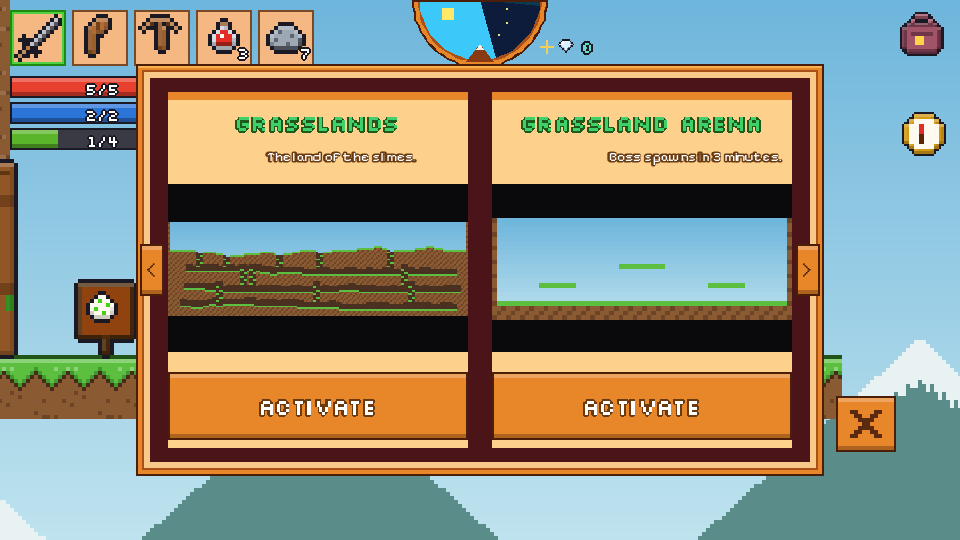
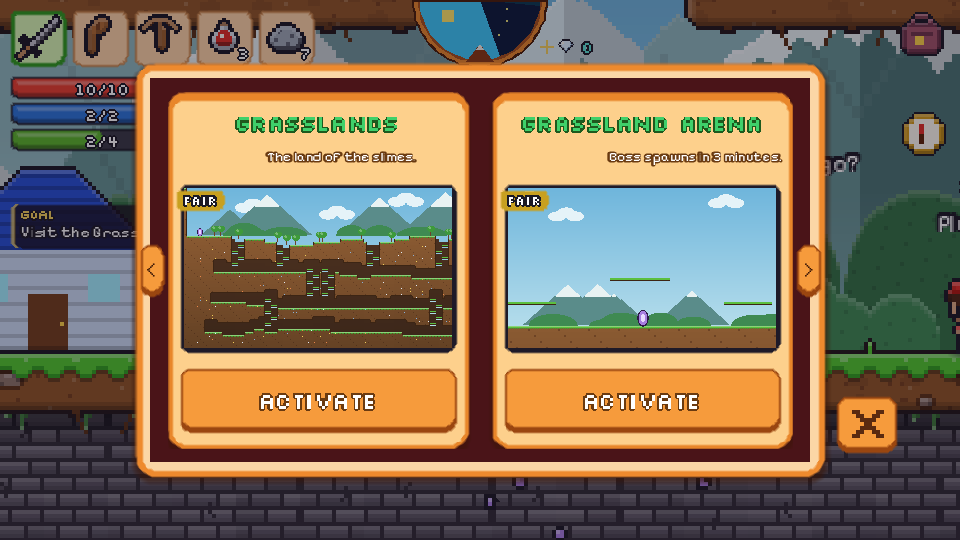
Line the town portal up under the opening, Crafter and Gatekeeper either side, and draw the world card maps like little screenshots
Claude-Session: https://claude.ai/code/session_01AhoKvcs55exJvAoSiLBhvt

diff --git a/Pixel Wilds Vault/01 Project/Decision Log.md b/Pixel Wilds Vault/01 Project/Decision Log.md
@@ -5,6 +5,13 @@ tags: [project, decisions]
 
 Newest first. Each entry gives the decision, why, and where it came from.
 
+## 2026-10-29 (portal area and world card maps)
+- **The Gatekeeper's portal opens in the exact middle of Pixel Town, right under the middle of the opening you jump up through,** so the opening and the portal line up. Before, the portal stood half a tile left of the opening's middle.
+- **The Crafter stands just left of the portal and the Gatekeeper just right of it,** each at the edge of the opening, the same distance away. The Crafter used to be at the east end of the street. The Plumber, Banka and the Merchant each moved one tile east, the sign one tile west, and the four houses now mirror around the middle.
+- **The map pictures on the world cards are drawn like little screenshots:** sky with clouds, mountains and hills, grass tops, dark cartoon edges, darker caves, trees, ores, and the portal you arrive at. Big worlds show their start; arenas and Survival show the middle. They used to be one flat pixel per tile.
+- Read "the created" as the Crafter and "portal character" as the Gatekeeper.
+- *Brenden: "Make the maps look better on the portal screen put the created in the left side of the portal character on the other side of Ty e open area where the portal opens make the top opening where you jump up symmetrical to the bottom where you enter a portal"*
+
 ## 2026-10-28 (GitHub clean-up)
 - **The README and GitHub description don't say "no shop, no ads".** *Brenden: "dont say no ads or no shop"*
 - **The README leads with how to play:** big Play buttons, the Web build badge, then the Godot version (the main game) before the classic browser version, whose details are folded into dropdowns. *Brenden: "can you make my github way cleaner and better looking and organized"*

diff --git a/Pixel Wilds Vault/02 Game/NPCs.md b/Pixel Wilds Vault/02 Game/NPCs.md
@@ -7,14 +7,14 @@ You talk to an NPC by **hitting** them (face them and press A), like the origina
 
 | NPC | Where | Look | Does |
 |---|---|---|---|
-| Gatekeeper | Right of the portal | Purple hat | Opens a world portal from the world cards (see [[Worlds]]) |
+| Gatekeeper | Right of the portal (right edge of the opening) | Purple hat | Opens a world portal from the world cards (see [[Worlds]]) |
 | Miffie | Street | Black hair, **yellow dress** | 27 quests in the original's order, then a daily bounty |
 | Brutus | Street | Red hair | Wood Wall quest → Survival Book and Survival Grasslands; sells wood, rock and branches |
 | Miner | Street | Blond | Seeds and keys for Survival Tokens |
 | Plumber | Street | Red cap, blue overalls | Sells tools; calls "New stocked items!" |
 | **Banka** | Street | Blonde pigtails, pink dress | **Storage**: 6 backpacks × 30 slots (see [[Bag and Storage]]) |
 | **Merchant** | Street | **Spiky blond hair**, grey shirt | Combo Book II for 1,500, potions, ammo, walls, campfire, Green Egg |
-| Crafter | Street, east | Brown | Makes weapons, tools, helmets, armor, shields and rings (see [[Crafting and Combining]]) |
+| Crafter | Left of the portal (left edge of the opening) | Brown | Makes weapons, tools, helmets, armor, shields and rings (see [[Crafting and Combining]]) |
 | Trader | Trading Center | Green cap | Trading between players |
 | GateKeeper (gate) | Furnace room | Green face | The Pretzel quest opens the furnace room |
 | GateKeeper (Hell 2) | Hell 2 | Missing his mask | Bring a Green Face, and he sells Em Stones for 92,500 |

diff --git a/Pixel Wilds Vault/02 Game/Pixel Town.md b/Pixel Wilds Vault/02 Game/Pixel Town.md
@@ -16,10 +16,12 @@ Small and closed in on all sides (a roof on top), with three floors. Since 2026-
 2. Miner, then Brutus
 3. Miffie (yellow dress)
 4. The sign
-5. **Portal**, with the **Gatekeeper** standing just right of it
-6. Plumber → **Banka** (storage) → **Merchant** (spiky blond hair) → Crafter
+5. The open space under the opening: the **Crafter** on its left edge, the **portal** in the exact middle (right under the opening's middle, so the two line up), and the **Gatekeeper** on its right edge, mirroring the Crafter
+6. Plumber → **Banka** (storage) → **Merchant** (spiky blond hair)
 
-That order matches Brenden's screenshot (Plumber, Banka, then the spiky-haired seller). See [[NPCs]].
+![[portal_area.png]]
+
+That order matches Brenden's screenshot (Plumber, Banka, then the spiky-haired seller). The Crafter moved from the east end to beside the portal on 2026-10-29, when Brenden asked for it. The four houses mirror around the middle. See [[NPCs]].
 
 ## The basement
 - A massive stone wall at the east end of the street blocks the way down. Smash it with the Wall Hammer, earned by surviving 10 nights in Survival Grasslands (the night number is a guess).
@@ -30,5 +32,6 @@ That order matches Brenden's screenshot (Plumber, Banka, then the spiky-haired s
 2. Closed in, with the middle opening; faster falling.
 3. Symmetrical sides.
 4. Smaller ("it's too big").
+5. Portal lined up under the opening, with the Crafter and Gatekeeper on either side (2026-10-29).
 
 See [[Decision Log]].

diff --git a/Pixel Wilds Vault/05 Sessions/2026-10-29 Portal area and card maps.md b/Pixel Wilds Vault/05 Sessions/2026-10-29 Portal area and card maps.md
@@ -1,0 +1,21 @@
+---
+tags: [session]
+---
+# 2026-10-29: Portal area and card maps
+
+**Asked:** "Make the maps look better on the portal screen put the created in the left side of the portal character on the other side of Ty e open area where the portal opens make the top opening where you jump up symmetrical to the bottom where you enter a portal"
+
+**Done:**
+- **The portal lines up with the opening.** The Gatekeeper's portal now opens in the exact middle of Pixel Town, under the middle of the opening up top. See [[Pixel Town]].
+- **The Crafter stands left of the portal and the Gatekeeper right of it,** at the two edges of the opening, the same distance away. The Plumber, Banka and Merchant moved one tile east, the sign one tile west, and the houses mirror around the middle.
+- **World card maps redrawn** like little screenshots: sky, clouds, mountains, hills, grass tops, dark edges, caves, trees, ores, and the arrival portal. See [[Worlds]].
+- Two new autotest checks: the portal sits under the opening's middle, and the Crafter and Gatekeeper stand the same distance either side. New screenshot `03h_portal_area`.
+- Autotest: 0 failures. Two-player test: 0 failures.
+
+![[world_cards.png]]
+![[portal_area.png]]
+
+**Decisions:** in [[Decision Log]].
+
+**Next:**
+- Check with Brenden that "the created" meant the Crafter and "portal character" the Gatekeeper.

diff --git a/Pixel Wilds Vault/01 Project/Completion Checklist.md b/Pixel Wilds Vault/01 Project/Completion Checklist.md
@@ -132,7 +132,7 @@ The living list of every system and how finished it is. It's updated after each 
 | System | | Notes |
 |---|---|---|
 | Main menu and character selection | A | Slots, create with all 18 characters (locked ones show how to unlock; tasks, owning one, gems tested), delete with confirm, Single/Multiplayer |
-| World selection and transitions | A | Gatekeeper cards, portals, all 23 worlds load, return to town |
+| World selection and transitions | A | Gatekeeper cards with screenshot-style map pictures (2026-10-29), portals, all 23 worlds load, return to town. Town portal under the middle of the opening, Crafter and Gatekeeper either side (tested 2026-10-29) |
 | Movement and combat feedback | A | Jumps, knockback, hit stun, numbers, low-health pulse |
 | Monster behaviour and bosses | B / E | Six movement types work, and every arena boss arrives. Bosses have no attack patterns of their own: PSG2's aren't documented |
 | Mining, chopping, resources | A | Tool tiers and hits |

diff --git a/Pixel Wilds Vault/01 Project/Changelog.md b/Pixel Wilds Vault/01 Project/Changelog.md
@@ -7,6 +7,7 @@ Every merged pull request on https://github.com/Brendensob/Brenden.sobanski. New
 
 | PR | Date | What changed |
 |---|---|---|
+| #36 | 2026-10-29 | Portal right under the middle of the town's opening; the Crafter left of it and the Gatekeeper right of it; world card maps drawn like little screenshots (sky, clouds, mountains, grass, caves, trees, ores, arrival portal) |
 | #35 | 2026-10-28 | README tagline no longer says "no shop, no ads" |
 | #34 | 2026-10-28 | README redone: play buttons and build badge at the top, contents, the Godot version first, classic version details folded away, repo layout table; stray `brenden.sobanski` intro file removed (it moves to a profile README); the old top-down browser version removed from the repo and from `/classic/` on the website |
 | #33 | 2026-10-27 | ◀ ▶, A and B back to their old sizes and places (90 × 34 and 68 × 34), keeping the cartoon finish; AUTO switch moved above A |

diff --git a/Pixel Wilds Vault/02 Game/Worlds.md b/Pixel Wilds Vault/02 Game/Worlds.md
@@ -7,6 +7,8 @@ tags: [game, worlds]
 
 The Gatekeeper's menu is a row of **world cards**, in the order of Brenden's screenshots. Each card has a green title, a one-line description, a small map picture with a **danger badge** (Easy, Fair, Hard or Deadly for your gear, see [[Goals and Guidance]]) and **Activate** (or **Locked**).
 
+The map picture is drawn like a little screenshot of the world (since 2026-10-29): its sky, clouds, mountains and hills, grassy ground with dark edges, darker caves, trees and ores, and a small purple portal where you arrive. Big worlds show their start, arenas and Survival their middle. In code: `level.gd` → `preview_image()`.
+
 | # | World | Card text |
 |---|---|---|
 | 1 | Grasslands | The land of the slimes. |
